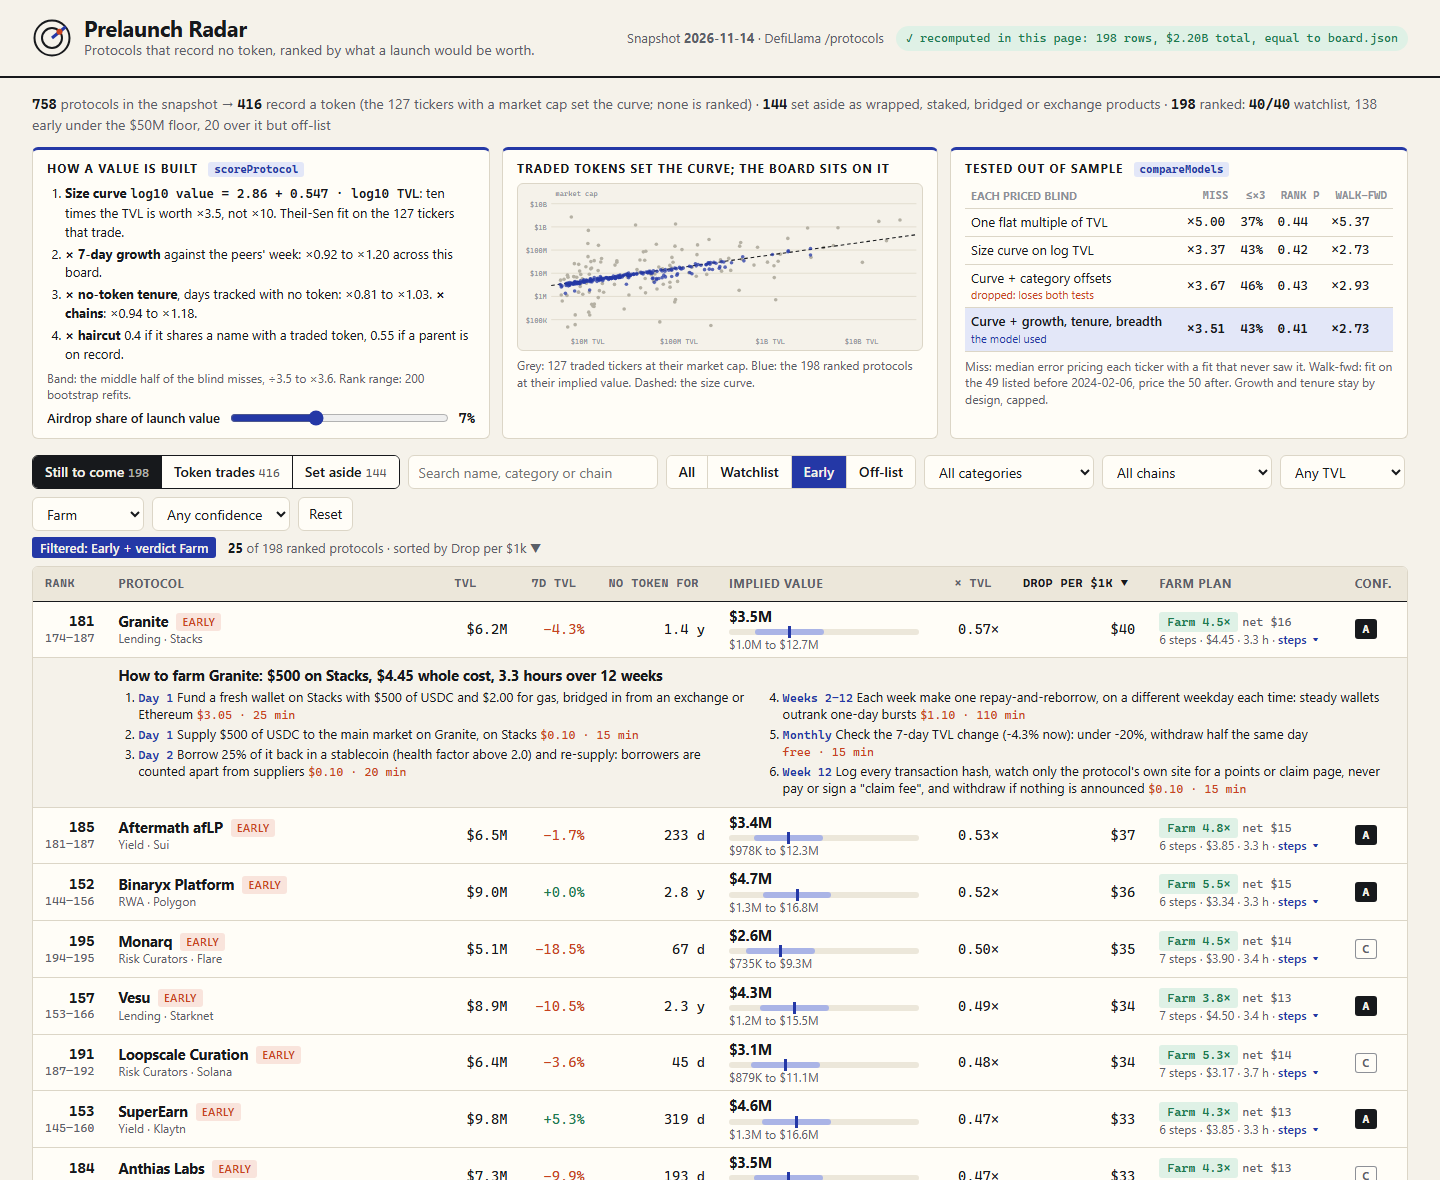
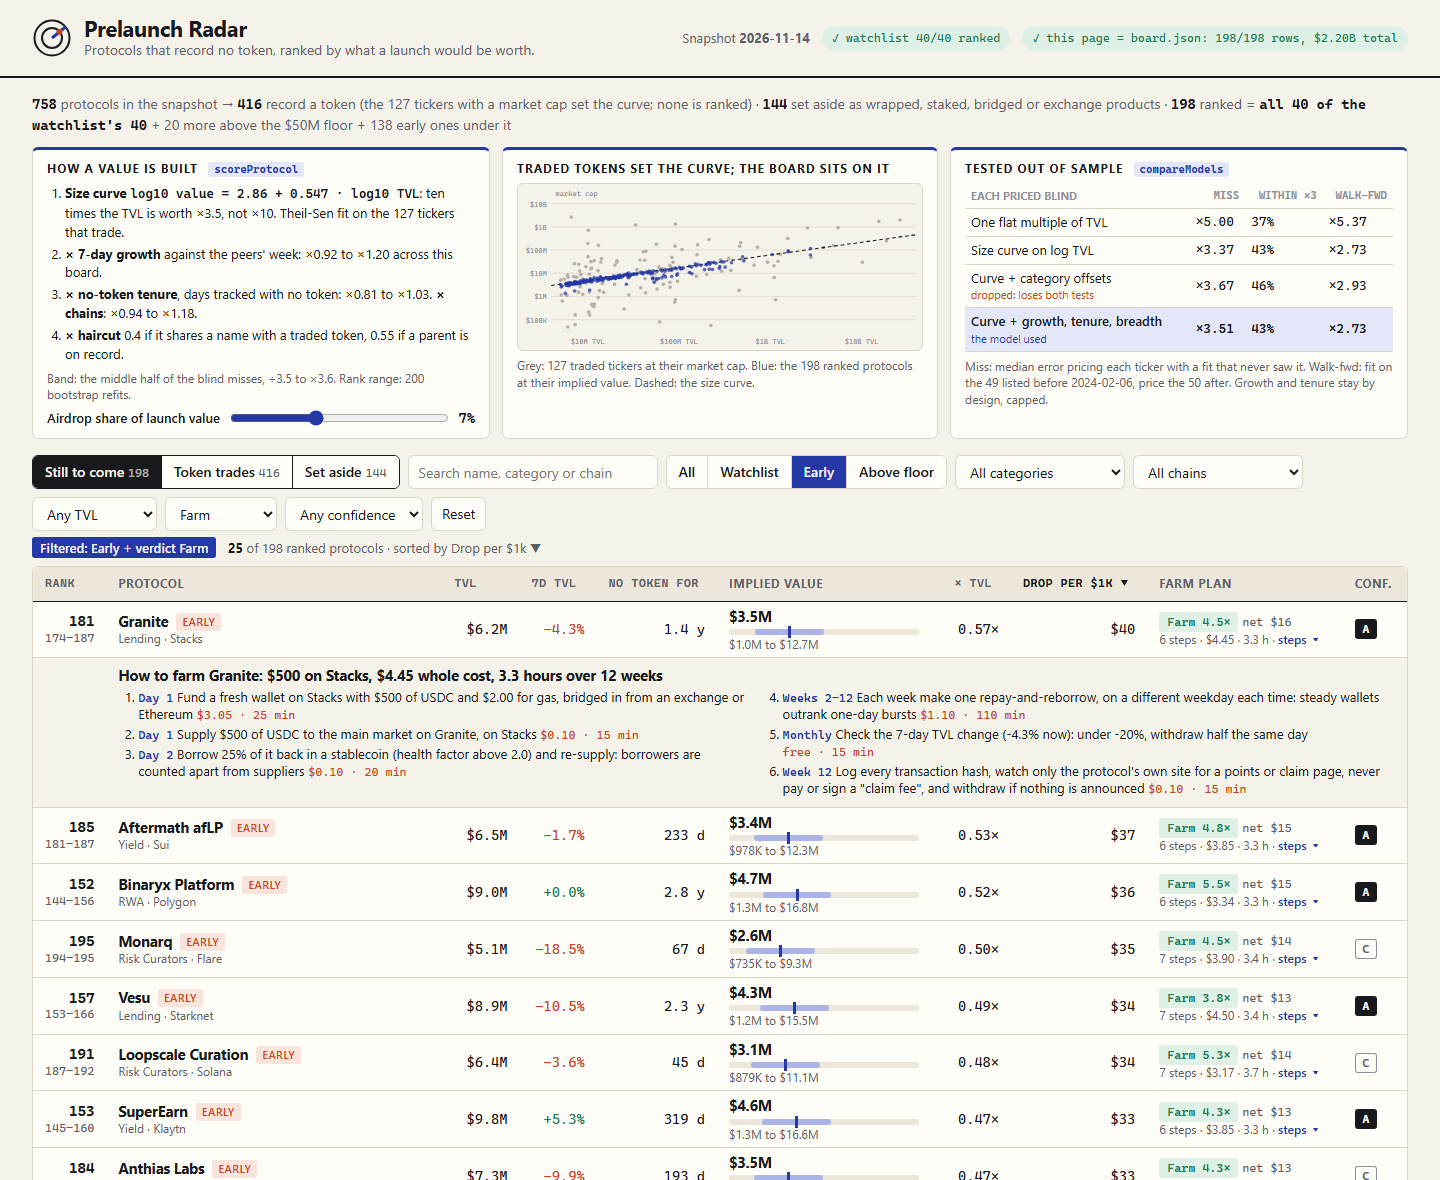
v4: say plainly that all 40 watchlist protocols are ranked; class renamed Above floor; drop the rank-correlation column (identical by construction for a monotone curve)

diff --git a/dashboard/radar.js b/dashboard/radar.js
@@ -19,7 +19,7 @@
   function tenure(d) { return d == null ? '<span class="na">n/a</span>' : d < 365 ? d + ' d' : (d / 365).toFixed(1) + ' y'; }
   function times(v) { return (v >= 10 ? v.toFixed(0) : v >= 1 ? v.toFixed(1) : v >= 0.01 ? v.toFixed(2) : v.toFixed(3)) + '×'; }
   function chainsShort(c, n) { return esc(c.slice(0, n).join(', ')) + (c.length > n ? ' +' + (c.length - n) : ''); }
-  var CLASS = { watch: 'Watchlist', offlist: 'Off-list', early: 'Early' };
+  var CLASS = { watch: 'Watchlist', above: 'Above floor', early: 'Early' };
   /** The reader's airdrop-share setting rescales the drop, the edge and the verdict; value and rank never move. */
   function farm(r, plan) {
     var k = Number(S.share) / (M.AIRDROP_SHARE * 100), pl = plan || r.plan, edge = pl.edge * k;
@@ -96,9 +96,9 @@
   // ----header, funnel, model bar
   function renderFrame() {
     var c = D.board_check, sum = rows.reduce(function (s, r) { return s + r.value; }, 0), ok = c && c.rows === rows.length && c.value_sum_usd === sum && c.top === rows[0].slug;
-    $('meta').innerHTML = '<span>Snapshot <b>' + esc(radar.as_of) + '</b> · DefiLlama /protocols</span><span class="chip ' + (ok ? 'ok' : 'bad') + '">' + (ok ? '✓ recomputed in this page: ' + rows.length + ' rows, ' + usd(sum) + ' total, equal to board.json' : 'This page\'s run differs from board.json') + '</span>';
+    $('meta').innerHTML = '<span>Snapshot <b>' + esc(radar.as_of) + '</b></span><span class="chip ok">✓ watchlist ' + rows.filter(function (r) { return r.cls === 'watch'; }).length + '/' + radar.watchlist.length + ' ranked</span><span class="chip ' + (ok ? 'ok' : 'bad') + '">' + (ok ? '✓ this page = board.json: ' + rows.length + '/' + c.rows + ' rows, ' + usd(sum) + ' total' : 'This page\'s run differs from board.json') + '</span>';
     var n = function (cls) { return rows.filter(function (r) { return r.cls === cls; }).length; };
-    $('funnel').innerHTML = '<b>' + radar.total + '</b> protocols in the snapshot → <b>' + radar.trading.length + '</b> record a token (the ' + radar.fit.n + ' tickers with a market cap set the curve; none is ranked) · <b>' + radar.aside.length + '</b> set aside as wrapped, staked, bridged or exchange products · <b>' + rows.length + '</b> ranked: <b>' + n('watch') + '/' + radar.watchlist.length + '</b> watchlist, ' + n('early') + ' early under the $' + radar.floor / 1e6 + 'M floor, ' + n('offlist') + ' over it but off-list';
+    $('funnel').innerHTML = '<b>' + radar.total + '</b> protocols in the snapshot → <b>' + radar.trading.length + '</b> record a token (the ' + radar.fit.n + ' tickers with a market cap set the curve; none is ranked) · <b>' + radar.aside.length + '</b> set aside as wrapped, staked, bridged or exchange products · <b>' + rows.length + '</b> ranked = <b>all ' + n('watch') + ' of the watchlist\'s ' + radar.watchlist.length + '</b> + ' + n('above') + ' more above the $' + radar.floor / 1e6 + 'M floor + ' + n('early') + ' early ones under it';
     var f = radar.fit, co = f.coef, span = function (k) { var v = rows.map(function (r) { return r[k]; }); return '×' + Math.min.apply(null, v).toFixed(2) + ' to ×' + Math.max.apply(null, v).toFixed(2); };
     $('modelbar').innerHTML = '<article><h3>How a value is built <code>scoreProtocol</code></h3><ol>' +
       '<li><b>Size curve</b> <code>log10 value = ' + f.a.toFixed(2) + ' + ' + f.b.toFixed(3) + ' · log10 TVL</code>: ten times the TVL is worth ×' + Math.pow(10, f.b).toFixed(1) + ', not ×10. Theil-Sen fit on the ' + f.n + ' tickers that trade.</li>' +
@@ -108,8 +108,8 @@
       '<p>Band: the middle half of the blind misses, ÷' + Math.pow(10, -T.q25).toFixed(1) + ' to ×' + Math.pow(10, T.q75).toFixed(1) + '. Rank range: 200 bootstrap refits.</p>' +
       '<label class="share">Airdrop share of launch value <input type="range" id="share" min="2" max="15" step="1" value="' + esc(S.share) + '"><output>' + esc(S.share) + '%</output></label></article>' +
       '<article><h3>Traded tokens set the curve; the board sits on it</h3>' + drawScatter(null) + '<p>Grey: ' + f.n + ' traded tickers at their market cap. Blue: the ' + rows.length + ' ranked protocols at their implied value. Dashed: the size curve.</p></article>' +
-      '<article><h3>Tested out of sample <code>compareModels</code></h3><table class="ladder"><thead><tr><th>Each priced blind</th><th class="num">Miss</th><th class="num">≤×3</th><th class="num">Rank ρ</th><th class="num">Walk-fwd</th></tr></thead><tbody>' +
-      radar.ladder.rungs.map(function (g) { return '<tr' + (g.terms === f.terms ? ' class="used"' : '') + '><td>' + g.name + (g.verdict ? '<small>' + g.verdict + '</small>' : '') + '</td><td class="num">×' + g.miss.toFixed(2) + '</td><td class="num">' + Math.round(g.within3 * 100) + '%</td><td class="num">' + g.rankCorr.toFixed(2) + '</td><td class="num">×' + g.split.miss.toFixed(2) + '</td></tr>'; }).join('') +
+      '<article><h3>Tested out of sample <code>compareModels</code></h3><table class="ladder"><thead><tr><th>Each priced blind</th><th class="num">Miss</th><th class="num">Within ×3</th><th class="num">Walk-fwd</th></tr></thead><tbody>' +
+      radar.ladder.rungs.map(function (g) { return '<tr' + (g.terms === f.terms ? ' class="used"' : '') + '><td>' + g.name + (g.verdict ? '<small>' + g.verdict + '</small>' : '') + '</td><td class="num">×' + g.miss.toFixed(2) + '</td><td class="num">' + Math.round(g.within3 * 100) + '%</td><td class="num">×' + g.split.miss.toFixed(2) + '</td></tr>'; }).join('') +
       '</tbody></table><p>Miss: median error pricing each ticker with a fit that never saw it. Walk-fwd: fit on the ' + T.split.train + ' listed before ' + T.split.cut + ', price the ' + T.split.test + ' after. Growth and tenure stay by design, capped.</p></article>';
   }
 
@@ -127,7 +127,7 @@
     var seg = function (v, label) { return '<button type="button" data-cls="' + v + '" aria-pressed="' + (S.cls === v) + '">' + label + '</button>'; };
     $('controls').innerHTML = '<div class="tabs" role="tablist">' + tab('ranked', 'Still to come', rows.length) + tab('trading', 'Token trades', radar.trading.length) + tab('aside', 'Set aside', radar.aside.length) + '</div>' +
       '<input type="search" id="q" placeholder="Search name, category or chain" value="' + esc(S.q) + '" aria-label="Search">' +
-      (ranked ? '<div class="seg" aria-label="Class">' + seg('', 'All') + seg('watch', 'Watchlist') + seg('early', 'Early') + seg('offlist', 'Off-list') + '</div>' : '') +
+      (ranked ? '<div class="seg" aria-label="Class">' + seg('', 'All') + seg('watch', 'Watchlist') + seg('early', 'Early') + seg('above', 'Above floor') + '</div>' : '') +
       '<select id="cat" aria-label="Category">' + options(tally(list, function (p) { return p.category || 'Uncategorised'; }), S.cat, 'All categories') + '</select>' +
       '<select id="chain" aria-label="Chain">' + options(tally(list, function (p) { return p.chains; }).slice(0, 40), S.chain, 'All chains') + '</select>' +
       '<select id="min" aria-label="Minimum TVL">' + options([['20000000', 'TVL ≥ $20M'], ['50000000', 'TVL ≥ $50M'], ['200000000', 'TVL ≥ $200M']], S.min, 'Any TVL') + '</select>' +

diff --git a/dashboard/model.js b/dashboard/model.js
@@ -33,7 +33,7 @@
         const w = firstWord(p.name);
         if (!GENERIC.test(w) && !kin[w]) kin[w] = p;
       } else {
-        const why = watch.has(p.slug) ? null : productReason(p);
+        const why = watch.has(p.slug) ? null : productReason(p); // a watchlist protocol is never set aside: all are ranked
         if (why) aside.push({ p, why }); else candidates.push(p);
       }
     }
@@ -132,15 +132,9 @@
     const old = fitOn(dated.slice(0, half), terms), fresh = dated.slice(half);
     return {
       n: peers.length, miss: 10 ** median(abs), q25: quantile(sorted, 0.25), q75: quantile(sorted, 0.75),
-      within3: abs.filter((e) => e <= log10(3)).length / abs.length, rankCorr: spearman(blind, peers.map((p) => p.y)),
+      within3: abs.filter((e) => e <= log10(3)).length / abs.length,
       split: { train: half, test: fresh.length, cut: dated[half].listed, miss: 10 ** median(fresh.map((p) => Math.abs(p.y - old.predict(p.x, p.category)))) }
     };
-  }
-  /** Spearman rank correlation: does the blind price put the tokens in the order the market does? */
-  function spearman(u, v) {
-    const ranks = (w) => { const r = []; w.map((_, i) => i).sort((i, j) => w[i] - w[j]).forEach((i, k) => { r[i] = k; }); return r; };
-    const a = ranks(u), b = ranks(v), n = u.length;
-    return 1 - 6 * a.reduce((s, x, i) => s + (x - b[i]) ** 2, 0) / (n * (n * n - 1));
   }
 
   /** The ladder, each rung tested blind: one flat multiple of TVL, the size curve, the curve with category offsets
@@ -171,7 +165,7 @@
   // ----4. the implied value of one protocol
   const AIRDROP_SHARE = 0.07;   // share of launch value assumed to reach farmers; the page lets the reader move it
   const KIN_HAIRCUT = 0.4;      // shares a name with a protocol whose token trades: the token may already exist
-  const PARENT_HAIRCUT = 0.55;  // at or over the floor yet off the watchlist: only the parent rule can explain it
+  const PARENT_HAIRCUT = 0.55;  // above the floor but not one of the watchlist's 40: only the parent rule explains that
 
   function scoreProtocol(p, fit, test, uni, snapshot) {
     const x = features(p.tvl_usd, p.change_7d, p.listed_at, p.chains.length, snapshot.as_of);
@@ -181,7 +175,7 @@
     const kin = uni.kin[firstWord(p.name)] || null;
     let haircut = 1, why = 'none: no traded relative found';
     if (kin) { haircut = KIN_HAIRCUT; why = 'shares a name with ' + kin.name + ' (' + (kin.symbol || kin.gecko_id) + ' trades): its token may already exist'; }
-    else if (overFloor && !onWatch) { haircut = PARENT_HAIRCUT; why = 'over the floor yet off the watchlist: a parent is on DefiLlama\'s record, so the token may launch there'; }
+    else if (overFloor && !onWatch) { haircut = PARENT_HAIRCUT; why = 'above the floor but not a watchlist protocol: a parent is on DefiLlama\'s record, so the token may launch there'; }
     const curve = 10 ** (fit.a + fit.b * x.t), catMult = 10 ** fit.offset(p.category);
     const growth = 10 ** fit.part('g', x), tenure = 10 ** fit.part('s', x), breadth = 10 ** fit.part('c', x);
     const value = Math.max(1, Math.round(10 ** fit.predict(x, p.category) * haircut));
@@ -189,7 +183,7 @@
     const conf = Math.round(20 + 40 * cat.n / (cat.n + 4) + (x.g == null ? 0 : 10) + (x.s == null ? 0 : 10 + 20 * x.s) - (haircut < 1 ? 15 : 0));
     return {
       slug: p.slug, name: p.name, category: p.category || 'Uncategorised', chains: p.chains, tvl: p.tvl_usd, change7d: p.change_7d,
-      listed: p.listed_at, days: age, cls: onWatch ? 'watch' : overFloor ? 'offlist' : 'early',
+      listed: p.listed_at, days: age, cls: onWatch ? 'watch' : overFloor ? 'above' : 'early',
       curve: Math.round(curve), catN: cat.n, catMult, growth, tenure, breadth, haircut, x, peerCategory: p.category,
       value, lo: Math.round(value * 10 ** test.q25), hi: Math.round(value * 10 ** test.q75), multiple: value / p.tvl_usd,
       perK: value * AIRDROP_SHARE * 1000 / p.tvl_usd, conf, grade: conf >= 75 ? 'A' : conf >= 58 ? 'B' : 'C', why

diff --git a/dashboard/radar.css b/dashboard/radar.css
@@ -86,7 +86,7 @@ table { width: 100%; border-collapse: collapse; }
 .tag { display: inline-block; margin-left: 8px; padding: 0 6px; border-radius: 3px; font: 600 11px/18px var(--sans); letter-spacing: 0.03em; text-transform: uppercase; vertical-align: 1px; }
 .tag.watch { background: var(--ink); color: var(--paper); }
 .tag.early { background: var(--red-wash); color: var(--red); }
-.tag.offlist { background: var(--wash); color: var(--soft); }
+.tag.above { background: var(--wash); color: var(--soft); }
 .tag.live { background: var(--green-wash); color: var(--green); text-transform: none; }
 .band { position: relative; display: block; height: 6px; width: 190px; margin: 3px 0 2px; background: var(--wash); border-radius: 3px; }
 .band i { position: absolute; top: 0; height: 6px; background: #aab4e6; border-radius: 3px; }
